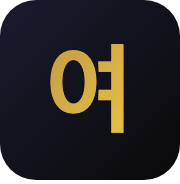
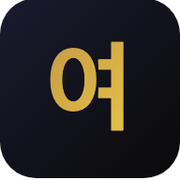
feat: SEO 개선 + PWA 아이콘 수정 + 푸시 알림 확장
- SEO: 로그인/회원가입 title 중복 제거, H1 태그 추가, canonical URL 추가
- PWA: 아이콘 정확한 정사각형으로 수정, apple-touch-icon 180x180 생성
- 푸시: 댓글/답글/공지사항 푸시 알림 추가, 이력서 등록 푸시 제거
- UI: iOS PWA 설치 가이드 바텀시트 모달 추가, 안내문구 개선

diff --git a/src/components/layout/AnnouncementBar.tsx b/src/components/layout/AnnouncementBar.tsx
@@ -1,7 +1,7 @@
 "use client";
 
 import { useState, useEffect } from "react";
-import { Smartphone, Share } from "lucide-react";
+import { Smartphone, Share, X, Plus } from "lucide-react";
 
 interface BeforeInstallPromptEvent extends Event {
   prompt: () => Promise<void>;
@@ -12,6 +12,7 @@ export function AnnouncementBar() {
   const [visible, setVisible] = useState(false);
   const [mode, setMode] = useState<"promo" | "install-android" | "install-ios" | null>(null);
   const [deferredPrompt, setDeferredPrompt] = useState<BeforeInstallPromptEvent | null>(null);
+  const [showGuide, setShowGuide] = useState(false);
 
   useEffect(() => {
     // Already installed → show nothing
@@ -95,7 +96,7 @@ export function AnnouncementBar() {
   if (mode === "promo") {
     return (
       <div className="relative bg-gradient-to-r from-primary to-accent px-4 py-2 text-center text-sm font-medium text-primary-foreground">
-        <span>여시잡 오픈! 첫 광고 등록 시 50% 할인</span>
+        <span>여시잡에서 유흥업소 채용정보와 인재를 만나보세요!</span>
         <button
           onClick={dismiss}
           className="absolute right-3 top-1/2 -translate-y-1/2 rounded p-1 hover:bg-black/10"
@@ -109,35 +110,104 @@ export function AnnouncementBar() {
 
   // PWA install banner
   return (
-    <div className="relative bg-gradient-to-r from-primary to-accent px-4 py-2 text-sm font-medium text-primary-foreground">
-      <div className="mx-auto flex max-w-screen-xl items-center justify-center gap-2">
-        <Smartphone className="h-4 w-4 shrink-0" />
-        {mode === "install-android" ? (
-          <>
-            <span>앱 설치하면 쪽지 알림을 실시간으로 받아요!</span>
+    <>
+      <div className="relative bg-gradient-to-r from-primary to-accent px-4 py-2 text-sm font-medium text-primary-foreground">
+        <div className="mx-auto flex max-w-screen-xl items-center justify-center gap-2">
+          <Smartphone className="h-4 w-4 shrink-0" />
+          {mode === "install-android" ? (
+            <>
+              <span>홈 화면에 추가하면 댓글 알림을 바로 받아요!</span>
+              <button
+                onClick={handleInstall}
+                className="rounded-full bg-white/20 px-3 py-0.5 text-xs font-bold transition-colors hover:bg-white/30"
+              >
+                설치
+              </button>
+            </>
+          ) : (
             <button
-              onClick={handleInstall}
-              className="rounded-full bg-white/20 px-3 py-0.5 text-xs font-bold transition-colors hover:bg-white/30"
+              onClick={() => setShowGuide(true)}
+              className="flex items-center gap-1"
             >
-              설치
+              <span>홈 화면에 추가하면 댓글 알림을 바로 받아요!</span>
+              <span className="rounded-full bg-white/20 px-2 py-0.5 text-xs font-bold">방법 보기</span>
             </button>
-          </>
-        ) : (
-          <>
-            <span className="flex items-center gap-1">
-              <Share className="inline h-3.5 w-3.5" />
-              공유 버튼 → &quot;홈 화면에 추가&quot;하면 쪽지 알림을 실시간으로!
-            </span>
-          </>
-        )}
+          )}
+        </div>
+        <button
+          onClick={dismiss}
+          className="absolute right-3 top-1/2 -translate-y-1/2 rounded p-1 hover:bg-black/10"
+          aria-label="닫기"
+        >
+          ✕
+        </button>
       </div>
-      <button
-        onClick={dismiss}
-        className="absolute right-3 top-1/2 -translate-y-1/2 rounded p-1 hover:bg-black/10"
-        aria-label="닫기"
-      >
-        ✕
-      </button>
-    </div>
+
+      {/* iOS 설치 가이드 바텀시트 */}
+      {showGuide && (
+        <div
+          className="fixed inset-0 z-50 flex items-end justify-center bg-black/60 backdrop-blur-sm"
+          onClick={() => setShowGuide(false)}
+        >
+          <div
+            className="w-full max-w-md animate-in slide-in-from-bottom duration-300 rounded-t-2xl bg-card px-5 pb-8 pt-5"
+            onClick={(e) => e.stopPropagation()}
+          >
+            {/* 핸들 */}
+            <div className="mx-auto mb-5 h-1 w-9 rounded-full bg-muted-foreground/30" />
+
+            <h3 className="mb-6 text-center text-lg font-bold">홈 화면에 추가하기</h3>
+
+            <div className="flex flex-col gap-5">
+              {/* Step 1 */}
+              <div className="flex items-start gap-3">
+                <div className="flex h-8 w-8 shrink-0 items-center justify-center rounded-full bg-primary text-sm font-bold text-primary-foreground">1</div>
+                <div>
+                  <p className="font-semibold">하단 공유 버튼 누르기</p>
+                  <p className="mt-1 text-sm text-muted-foreground">Safari 하단 바에서 공유 아이콘을 눌러주세요</p>
+                  <div className="mt-2 inline-flex items-center gap-1.5 rounded-md bg-muted px-2.5 py-1 text-sm text-primary">
+                    <Share className="h-4 w-4" />
+                    <span>공유</span>
+                  </div>
+                </div>
+              </div>
+
+              {/* Step 2 */}
+              <div className="flex items-start gap-3">
+                <div className="flex h-8 w-8 shrink-0 items-center justify-center rounded-full bg-primary text-sm font-bold text-primary-foreground">2</div>
+                <div>
+                  <p className="font-semibold">&quot;홈 화면에 추가&quot; 선택</p>
+                  <p className="mt-1 text-sm text-muted-foreground">메뉴를 스크롤해서 찾아 눌러주세요</p>
+                  <div className="mt-2 inline-flex items-center gap-1.5 rounded-md bg-muted px-2.5 py-1 text-sm text-primary">
+                    <Plus className="h-4 w-4" />
+                    <span>홈 화면에 추가</span>
+                  </div>
+                </div>
+              </div>
+
+              {/* Step 3 */}
+              <div className="flex items-start gap-3">
+                <div className="flex h-8 w-8 shrink-0 items-center justify-center rounded-full bg-primary text-sm font-bold text-primary-foreground">3</div>
+                <div>
+                  <p className="font-semibold">오른쪽 상단 &quot;추가&quot; 누르기</p>
+                  <p className="mt-1 text-sm text-muted-foreground">여시잡 아이콘이 홈 화면에 추가됩니다!</p>
+                </div>
+              </div>
+            </div>
+
+            {/* 하단 */}
+            <div className="mt-6 border-t pt-4 text-center">
+              <p className="text-sm font-medium text-primary">앱처럼 바로 접속 + 댓글/쪽지/공지 알림 수신!</p>
+              <button
+                onClick={() => setShowGuide(false)}
+                className="mt-4 w-full rounded-xl bg-muted py-3 text-sm font-medium transition-colors hover:bg-muted/80"
+              >
+                닫기
+              </button>
+            </div>
+          </div>
+        </div>
+      )}
+    </>
   );
 }

diff --git a/src/app/api/resumes/route.ts b/src/app/api/resumes/route.ts
@@ -2,7 +2,7 @@ import { NextRequest, NextResponse } from "next/server";
 import { auth } from "@/lib/auth";
 import { prisma } from "@/lib/prisma";
 import { resumeSchema } from "@/lib/validators/resume";
-import { sendPushNotification } from "@/lib/push-notification";
+
 import type { Region, BusinessType } from "@/generated/prisma/client";
 
 
@@ -132,16 +132,7 @@ export async function POST(request: NextRequest) {
           })),
         });
 
-        // 브라우저 푸시 알림 (fire and forget)
-        Promise.allSettled(
-          userIds.map((userId) =>
-            sendPushNotification(userId, {
-              title: "새 이력서 등록",
-              body: message,
-              url: "/business/resumes",
-            })
-          )
-        ).catch(() => {});
+        // 이력서 열람 푸시는 사장님 부담 → 종 알림만 유지
       }
     }
 

diff --git a/src/app/api/notices/route.ts b/src/app/api/notices/route.ts
@@ -1,6 +1,7 @@
 import { NextRequest, NextResponse } from "next/server";
 import { auth } from "@/lib/auth";
 import { prisma } from "@/lib/prisma";
+import { sendPushNotification } from "@/lib/push-notification";
 
 export async function GET(request: NextRequest) {
   try {
@@ -115,6 +116,17 @@ export async function POST(request: NextRequest) {
             link: `/notice/${notice.id}`,
           })),
         });
+
+        // 브라우저 푸시 알림 (fire and forget)
+        Promise.allSettled(
+          activeUsers.map((user) =>
+            sendPushNotification(user.id, {
+              title: "새 공지사항",
+              body: notice.title,
+              url: `/notice/${notice.id}`,
+            })
+          )
+        ).catch(() => {});
       }
     } catch (error) {
       console.error("Failed to create notifications for notice:", error);

diff --git a/src/app/api/posts/[id]/comments/route.ts b/src/app/api/posts/[id]/comments/route.ts
@@ -3,6 +3,7 @@ import { auth } from "@/lib/auth";
 import { prisma } from "@/lib/prisma";
 import { checkRateLimit } from "@/lib/rate-limit";
 import { stripHtml } from "@/lib/utils/format";
+import { sendPushNotification } from "@/lib/push-notification";
 
 export async function GET(
   request: NextRequest,
@@ -178,6 +179,13 @@ export async function POST(
           link: `/community/${id}`,
         },
       }).catch(() => {}); // Don't fail comment creation if notification fails
+
+      // 브라우저 푸시 알림
+      sendPushNotification(notificationUserId, {
+        title: finalParentId ? "새 답글" : "새 댓글",
+        body: notificationMessage,
+        url: `/community/${id}`,
+      }).catch(() => {});
     }
 
     return NextResponse.json(

diff --git a/src/app/(auth)/register/jobseeker/page.tsx b/src/app/(auth)/register/jobseeker/page.tsx
@@ -69,7 +69,7 @@ export default function RegisterJobseekerPage() {
   return (
     <Card className="w-full max-w-md">
       <CardHeader className="text-center">
-        <CardTitle className="text-2xl font-bold">구직자 회원가입</CardTitle>
+        <CardTitle className="text-2xl font-bold"><h1>구직자 회원가입</h1></CardTitle>
         <CardDescription>
           무료로 가입하고 일자리를 찾아보세요<br />
           <span className="text-xs">카카오 로그인으로도 간편하게 가입할 수 있습니다</span>

diff --git a/src/app/(auth)/register/jobseeker/layout.tsx b/src/app/(auth)/register/jobseeker/layout.tsx
@@ -1,8 +1,11 @@
 import type { Metadata } from "next";
 
 export const metadata: Metadata = {
-  title: "구직자 회원가입 | 여시잡",
-  description: "구직자 회원가입",
+  title: "구직자 회원가입",
+  description: "여시잡 구직자 회원가입. 무료로 가입하고 유흥업소 채용정보를 확인하세요.",
+  alternates: {
+    canonical: "/register/jobseeker",
+  },
 };
 
 export default function JobseekerRegisterLayout({

diff --git a/src/app/(auth)/register/business/page.tsx b/src/app/(auth)/register/business/page.tsx
@@ -73,7 +73,7 @@ export default function RegisterBusinessPage() {
   return (
     <Card className="w-full max-w-md">
       <CardHeader className="text-center">
-        <CardTitle className="text-2xl font-bold">업소 회원가입</CardTitle>
+        <CardTitle className="text-2xl font-bold"><h1>업소 회원가입</h1></CardTitle>
         <CardDescription>
           광고를 등록하고 인재를 찾아보세요
         </CardDescription>

diff --git a/src/app/(auth)/register/business/layout.tsx b/src/app/(auth)/register/business/layout.tsx
@@ -1,8 +1,11 @@
 import type { Metadata } from "next";
 
 export const metadata: Metadata = {
-  title: "사장님 회원가입 | 여시잡",
-  description: "사장님 회원가입",
+  title: "사장님 회원가입",
+  description: "여시잡 사장님 회원가입. 광고를 등록하고 인재를 찾아보세요.",
+  alternates: {
+    canonical: "/register/business",
+  },
 };
 
 export default function BusinessRegisterLayout({

diff --git a/src/app/(auth)/login/layout.tsx b/src/app/(auth)/login/layout.tsx
@@ -1,8 +1,11 @@
 import type { Metadata } from "next";
 
 export const metadata: Metadata = {
-  title: "로그인 | 여시잡",
-  description: "여시잡 로그인",
+  title: "로그인",
+  description: "여시잡 로그인. 이메일 또는 카카오, 구글 계정으로 간편하게 로그인하세요.",
+  alternates: {
+    canonical: "/login",
+  },
 };
 
 export default function LoginLayout({

diff --git a/src/app/(auth)/login/page.tsx b/src/app/(auth)/login/page.tsx
@@ -53,6 +53,7 @@ export default function LoginPage() {
   return (
     <Card className="w-full max-w-md bg-card">
       <CardHeader className="text-center">
+        <h1 className="sr-only">로그인</h1>
         <CardTitle className="text-2xl font-bold">여시잡</CardTitle>
         <CardDescription>로그인하여 서비스를 이용해보세요</CardDescription>
       </CardHeader>
